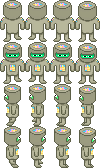
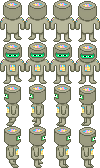
PlayState demos sprites, update sprite sheet

diff --git a/src/state/PlayState.cpp b/src/state/PlayState.cpp
@@ -57,6 +57,29 @@ bool PlayState::onEnter()
     // create a new world
     m_world = new World(w, h);
 
+    TheGfxManager::Instance()->addTexture("../res/player.png", "player_sheet");
+    TheGfxManager::Instance()->addSprites("player_sheet","player_sprites",25,42,16);
+    // TODO TEST player up sprites
+    std::vector<sf::Sprite> player_up = TheGfxManager::Instance()->getSprites("player_sprites",0,3);
+    for(int i = 0; i < player_up.size(); i++)
+        player_up[i].setScale(4,4);
+    m_gameObjects.push_back(new GameObject(new LoaderParams(sf::Vector2f(150,100),25,42,player_up,true)));
+    // TODO TEST player up sprites
+    std::vector<sf::Sprite> player_down = TheGfxManager::Instance()->getSprites("player_sprites",4,7);
+    for(int i = 0; i < player_down.size(); i++)
+        player_down[i].setScale(4,4);
+    m_gameObjects.push_back(new GameObject(new LoaderParams(sf::Vector2f(150,300),25,42,player_down,true)));
+    // TODO TEST player up sprites
+    std::vector<sf::Sprite> player_left = TheGfxManager::Instance()->getSprites("player_sprites",8,11);
+    for(int i = 0; i < player_left.size(); i++)
+        player_left[i].setScale(4,4);
+    m_gameObjects.push_back(new GameObject(new LoaderParams(sf::Vector2f(150,500),25,42,player_left,true)));
+    // TODO TEST player up sprites
+    std::vector<sf::Sprite> player_right = TheGfxManager::Instance()->getSprites("player_sprites",12,15);
+    for(int i = 0; i < player_right.size(); i++)
+        player_right[i].setScale(4,4);
+    m_gameObjects.push_back(new GameObject(new LoaderParams(sf::Vector2f(150,700),25,42,player_right,true)));
+
     std::cout << "Entering play state\n";
     return true;
 }
